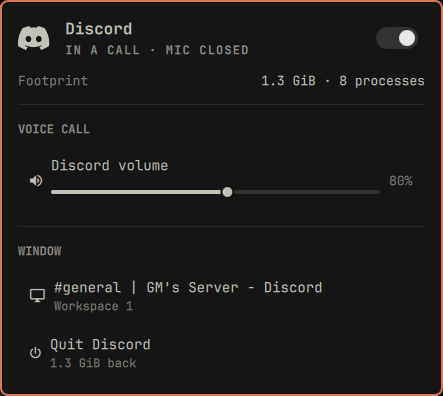
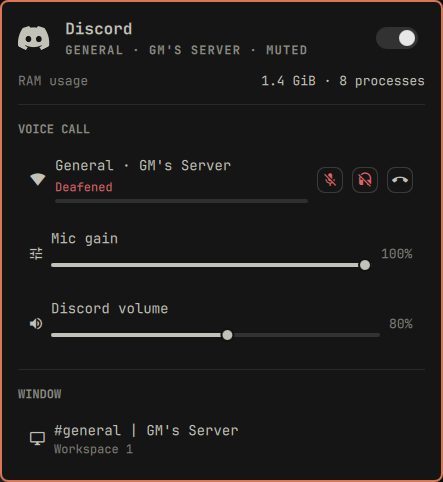
refactor(discord): drop what nothing reads, wire what nothing called
The bridge emitted outputVolume and mode and accepted commands for both, but
no QML ever read them — the output-volume slider was cut on purpose and the
voice mode was never shown. An unread field is a defect, not a feature waiting.

Rpc.refresh() was the opposite problem: a real recovery path with no caller.
Service.refresh() now drives both tiers, so every existing refresh trigger
re-reads Discord's own state too, and the bridge ignores it while it is down.

Preview regenerated for the current panel.

diff --git a/Service.qml b/Service.qml
@@ -87,8 +87,11 @@ Item {
 
   // ------------------------------------------------------------ actions
 
+  // Re-reads both tiers: the process poll, and Discord's own state in case a
+  // dispatch was missed. The bridge ignores this while it is down.
   function refresh() {
     if (!statusProcess.running) statusProcess.running = true
+    bridge.refresh()
   }
 
   function applyProcesses(raw) {

diff --git a/rpc.py b/rpc.py
@@ -286,8 +286,8 @@ class Bridge:
         self.speaking = set()
         self.guilds = {}
         self.state = {"ok": True, "channel": "", "guild": "", "mute": False,
-                      "deaf": False, "inputVolume": 100, "outputVolume": 100,
-                      "mode": "", "speaking": [], "error": "",
+                      "deaf": False, "inputVolume": 100,
+                      "speaking": [], "error": "",
                       "ping": 0, "voiceState": ""}
 
     def emit(self):
@@ -300,8 +300,6 @@ class Bridge:
         self.state["mute"] = bool(data.get("mute"))
         self.state["deaf"] = bool(data.get("deaf"))
         self.state["inputVolume"] = round(float((data.get("input") or {}).get("volume", 100)))
-        self.state["outputVolume"] = round(float((data.get("output") or {}).get("volume", 100)))
-        self.state["mode"] = str((data.get("mode") or {}).get("type", ""))
 
     def guild_name(self, guild_id):
         if not guild_id:
@@ -380,10 +378,6 @@ class Bridge:
             self.rpc.command("SET_VOICE_SETTINGS", {name: bool(value)})
         elif name == "inputVolume":
             self.rpc.command("SET_VOICE_SETTINGS", {"input": {"volume": float(value)}})
-        elif name == "outputVolume":
-            self.rpc.command("SET_VOICE_SETTINGS", {"output": {"volume": float(value)}})
-        elif name == "mode":
-            self.rpc.command("SET_VOICE_SETTINGS", {"mode": {"type": str(value)}})
         elif name == "disconnect":
             self.rpc.command("SELECT_VOICE_CHANNEL", {"channel_id": None, "force": True})
         elif name == "refresh":
